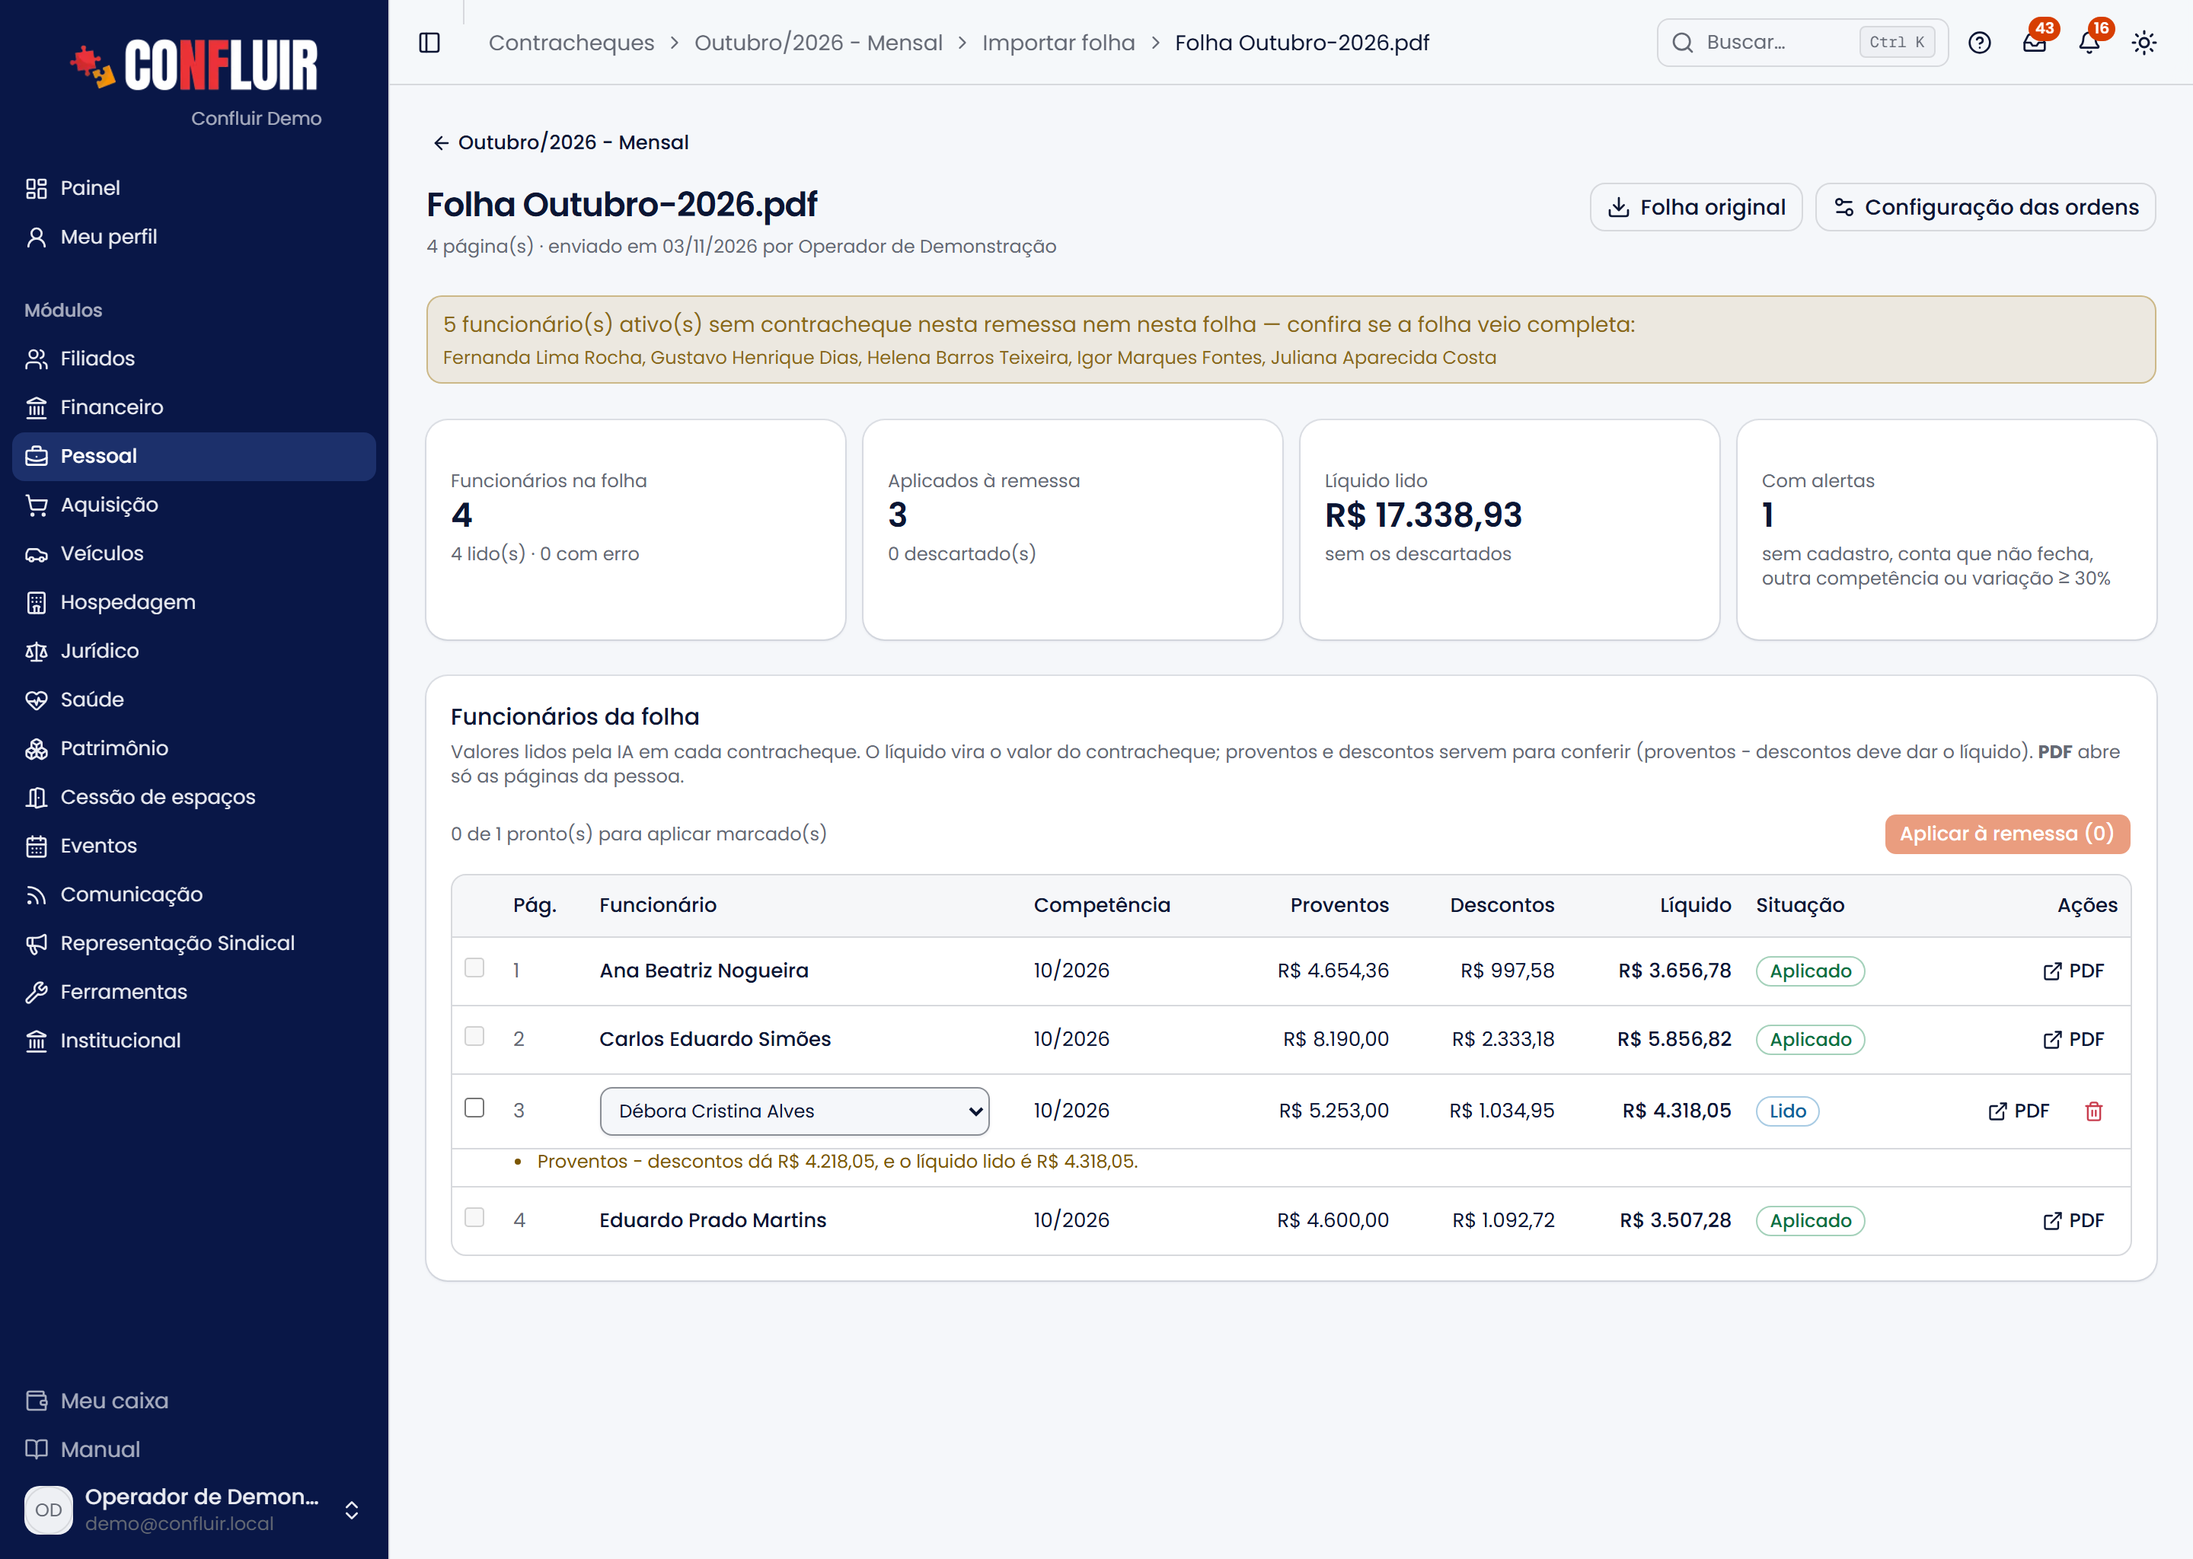
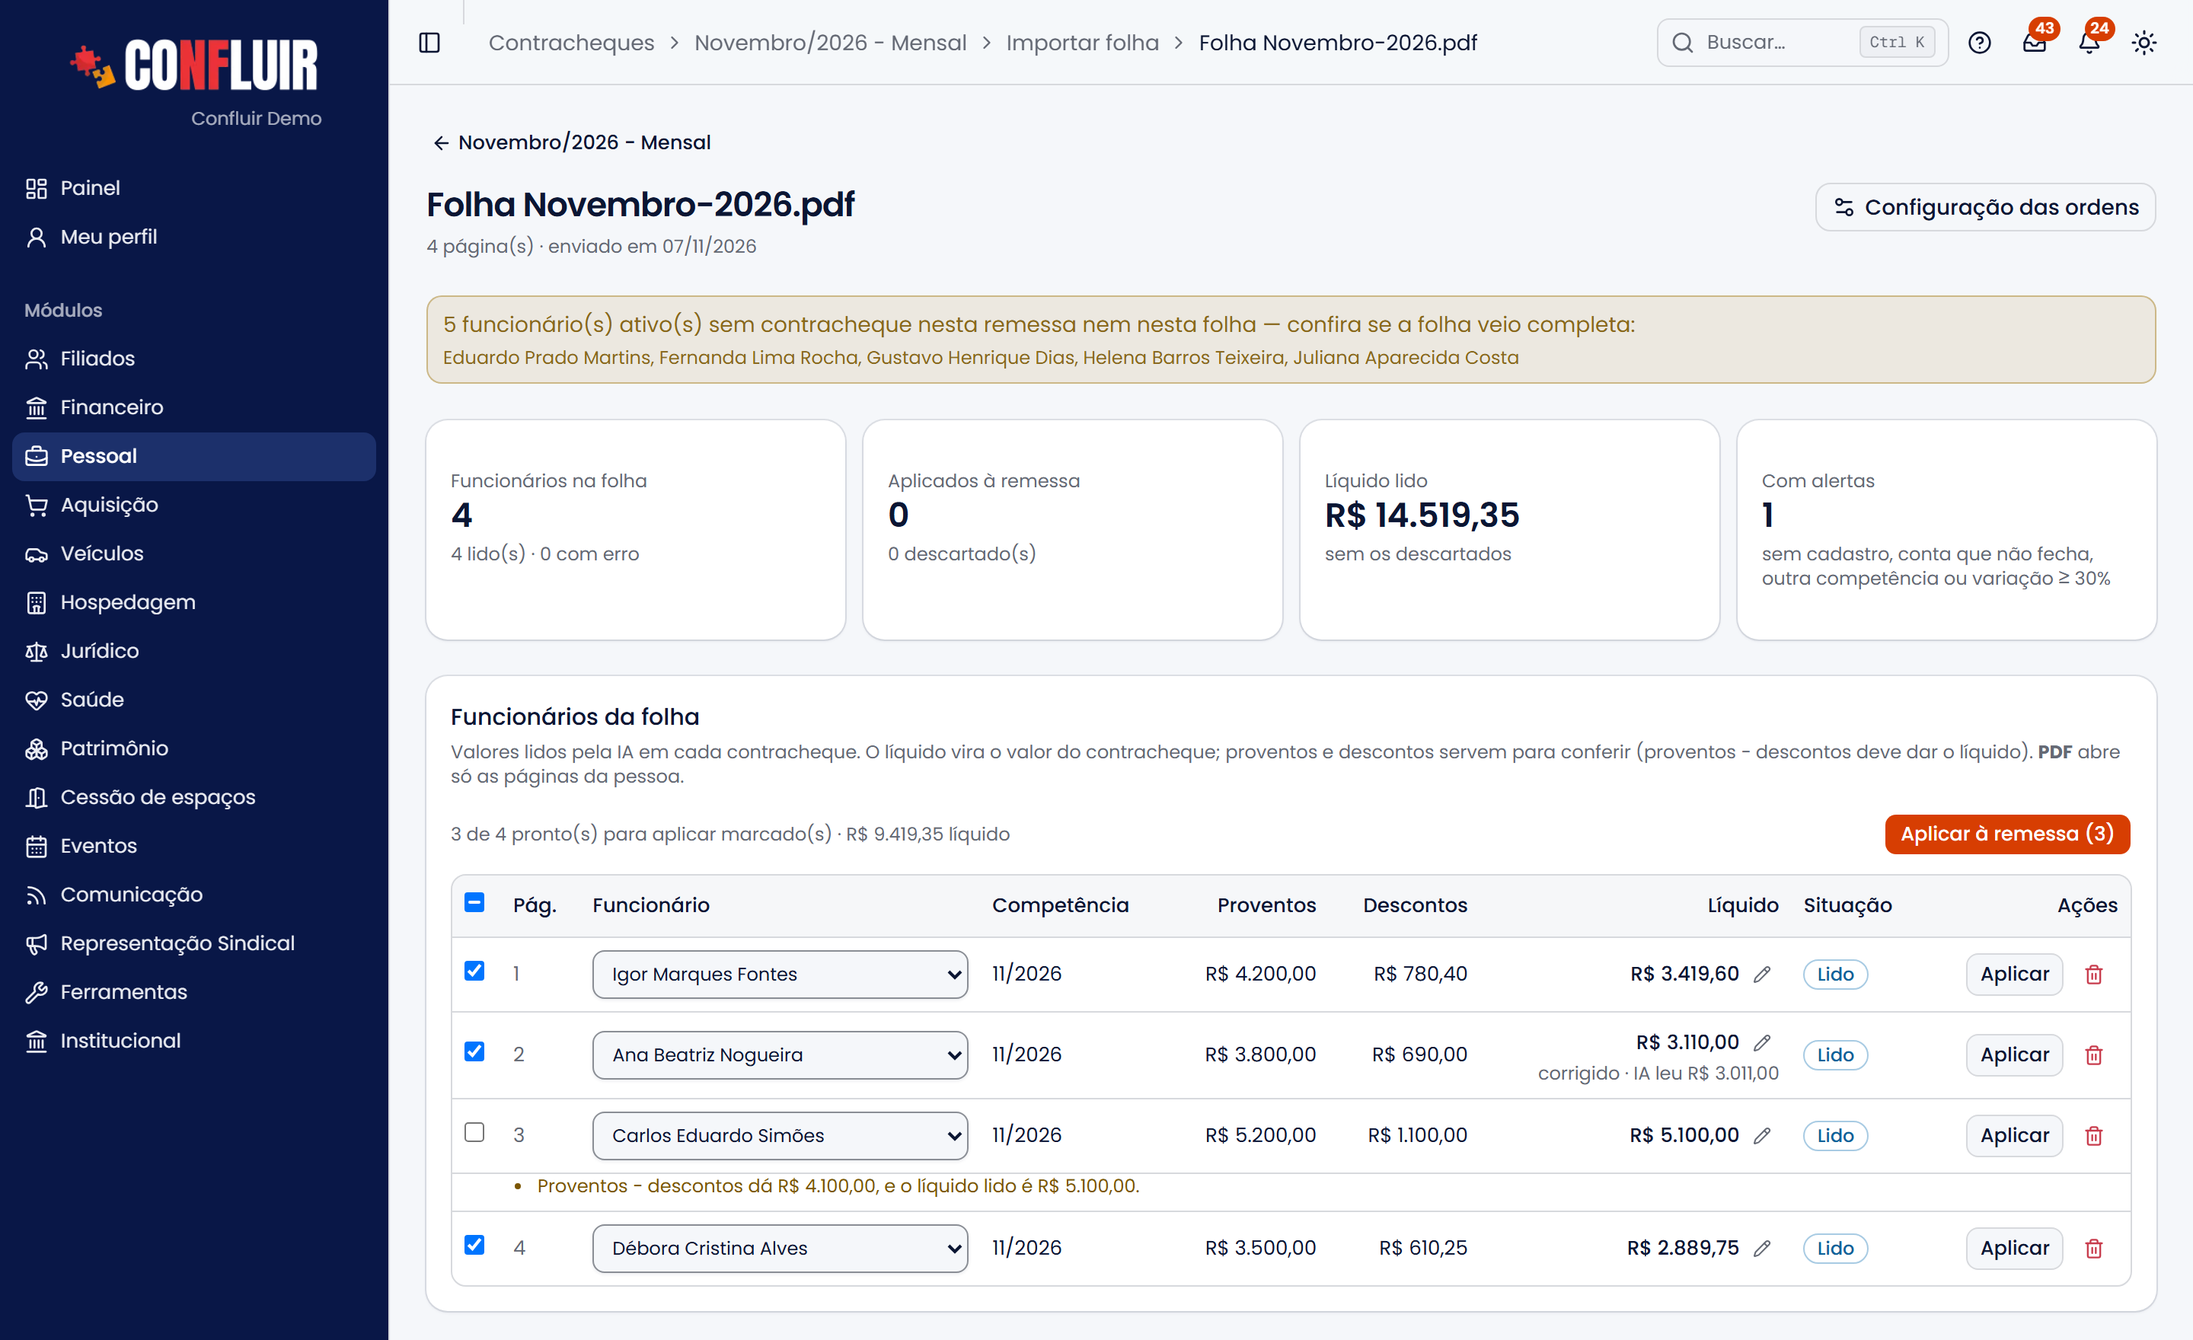
Contracheques: corrigir o líquido, aplicar um a um e marcar todos na conferência
Na conferência da folha importada: lápis no líquido para corrigir o valor
lido pela IA (guarda o valor original e mostra 'corrigido · IA leu'; vale
também para a linha com erro na leitura), botão Aplicar em cada linha e a
caixa de marcar/desmarcar todos no cabeçalho. Manual e print atualizados.

diff --git a/src/app/painel/pessoal/contracheques/[id]/importar/[importacaoId]/conferencia.tsx b/src/app/painel/pessoal/contracheques/[id]/importar/[importacaoId]/conferencia.tsx
@@ -2,7 +2,7 @@
 
 import { Fragment, useState, useTransition } from "react"
 import { useRouter } from "next/navigation"
-import { ExternalLink, FileSearch, Loader2, RotateCcw, Trash2 } from "lucide-react"
+import { Check, ExternalLink, FileSearch, Loader2, Pencil, RotateCcw, Trash2, X } from "lucide-react"
 
 import { Trabalhando } from "@/components/trabalhando"
 import { useLeituraEmLotes } from "@/hooks/use-leitura-em-lotes"
@@ -18,6 +18,7 @@ import { cn } from "@/lib/utils"
 import {
   aplicarItensCCAction,
   associarFuncionarioCCAction,
+  corrigirLiquidoCCAction,
   descartarItemCCAction,
   lerImportacaoCCAction,
 } from "../actions"
@@ -104,6 +105,34 @@ export function ConferenciaCC({
       else n.add(id)
       return n
     })
+  // Marcar todos: inclui os com alerta — é a escolha explícita de quem conferiu.
+  const todosMarcados = aplicaveis.length > 0 && selecionados.length === aplicaveis.length
+  const algunsMarcados = selecionados.length > 0 && !todosMarcados
+  const alternarTodos = () => setMarcados(todosMarcados ? new Set() : new Set(aplicaveis))
+
+  // ── Correção do líquido (antes de aplicar) ──
+  const [editando, setEditando] = useState<{ id: string; valor: string } | null>(null)
+  const [erroEdicao, setErroEdicao] = useState<string | null>(null)
+  const abrirEdicao = (i: ItemTelaCC) => {
+    setErroEdicao(null)
+    const v = i.leitura?.valorLiquido
+    setEditando({ id: i.id, valor: v === null || v === undefined ? "" : v.toLocaleString("pt-BR", { minimumFractionDigits: 2 }) })
+  }
+  const salvarEdicao = () => {
+    if (!editando) return
+    const { id, valor } = editando
+    iniciar({ titulo: "Corrigindo o valor líquido…" }, async () => {
+      const r = await corrigirLiquidoCCAction(remessaId, importacaoId, id, valor)
+      if (r.erro) {
+        setErroEdicao(r.erro)
+        return
+      }
+      setEditando(null)
+      // Quem corrigiu conferiu: o item entra marcado.
+      setMarcados((m) => new Set(m).add(id))
+      router.refresh()
+    })
+  }
 
   const [ocupado, iniciarTransicao] = useTransition()
   const [tarefa, setTarefa] = useState<{ titulo: string; detalhe?: string } | null>(null)
@@ -119,16 +148,19 @@ export function ConferenciaCC({
     })
   }
 
-  const totalSelecionado = itens
-    .filter((i) => selecionados.includes(i.id))
-    .reduce((s, i) => s + (i.leitura?.valorLiquido ?? 0), 0)
+  const liquidoDe = (ids: string[]) =>
+    itens.filter((i) => ids.includes(i.id)).reduce((s, i) => s + (i.leitura?.valorLiquido ?? 0), 0)
+  const totalSelecionado = liquidoDe(selecionados)
 
   // A confirmação vem antes da transição (dentro dela, o diálogo só apareceria no fim).
-  const aplicar = async () => {
-    const n = selecionados.length
+  // Sem `ids`, aplica os marcados; com um id, só aquela linha.
+  const aplicar = async (ids: string[] = selecionados) => {
+    const n = ids.length
+    const um = n === 1 ? itens.find((i) => i.id === ids[0]) : null
+    const total = liquidoDe(ids)
     const ok = await confirmar({
-      titulo: `Aplicar ${n} contracheque(s) à remessa?`,
-      descricao: `Cria o contracheque de cada um com o PDF dele e o valor líquido lido (total: ${moeda(totalSelecionado)}).${
+      titulo: um ? `Aplicar o contracheque de ${um.funcionarioNome ?? "este funcionário"}?` : `Aplicar ${n} contracheque(s) à remessa?`,
+      descricao: `${um ? "Cria o contracheque com o PDF dele e o valor líquido" : "Cria o contracheque de cada um com o PDF dele e o valor líquido"} (${um ? "" : "total: "}${moeda(total)}).${
         geraOrdem ? " Cada um gera a ordem de pagamento com o líquido, como no registro manual." : ""
       } Nada é enviado ao funcionário: os contracheques ficam bloqueados até você liberar na remessa.`,
       confirmar: "Aplicar",
@@ -140,7 +172,8 @@ export function ConferenciaCC({
         detalhe: geraOrdem ? "Gravando os contracheques e gerando as ordens de pagamento." : "Gravando os contracheques.",
       },
       async () => {
-        const r = await aplicarItensCCAction(remessaId, importacaoId, selecionados)
+        const r = await aplicarItensCCAction(remessaId, importacaoId, ids)
+        if (!r.erro) setMarcados((m) => new Set([...m].filter((id) => !ids.includes(id))))
         setResultado(
           r.erro
             ? { erro: r.erro }
@@ -206,7 +239,7 @@ export function ConferenciaCC({
           {selecionados.length} de {aplicaveis.length} pronto(s) para aplicar marcado(s)
           {selecionados.length > 0 && ` · ${moeda(totalSelecionado)} líquido`}
         </span>
-        <Button size="sm" onClick={aplicar} disabled={ocupado || lendo || selecionados.length === 0}>
+        <Button size="sm" onClick={() => aplicar()} disabled={ocupado || lendo || selecionados.length === 0}>
           {ocupado && <Loader2 className="animate-spin" />}
           Aplicar à remessa ({selecionados.length})
         </Button>
@@ -216,7 +249,18 @@ export function ConferenciaCC({
         <Table>
           <TableHeader>
             <TableRow className="bg-muted/50">
-              <TableHead className="w-8" />
+              <TableHead className="w-8">
+                <input
+                  type="checkbox"
+                  aria-label="Marcar todos os contracheques prontos para aplicar"
+                  checked={todosMarcados}
+                  ref={(el) => {
+                    if (el) el.indeterminate = algunsMarcados
+                  }}
+                  disabled={aplicaveis.length === 0 || ocupado}
+                  onChange={alternarTodos}
+                />
+              </TableHead>
               <TableHead>Pág.</TableHead>
               <TableHead>Funcionário</TableHead>
               <TableHead>Competência</TableHead>
@@ -283,7 +327,56 @@ export function ConferenciaCC({
                     <TableCell className="tabular-nums">{mesAno(l?.competencia) ?? (sendoLido ? <Skeleton className="h-3 w-14" /> : "—")}</TableCell>
                     <TableCell className="text-right tabular-nums">{moeda(l?.totalProventos) ?? vazio}</TableCell>
                     <TableCell className="text-right tabular-nums">{moeda(l?.totalDescontos) ?? vazio}</TableCell>
-                    <TableCell className="text-right font-medium tabular-nums">{moeda(l?.valorLiquido) ?? vazio}</TableCell>
+                    <TableCell className="text-right font-medium tabular-nums">
+                      {editando?.id === i.id ? (
+                        <div className="flex flex-col items-end gap-1">
+                          <div className="flex items-center justify-end gap-1">
+                            <input
+                              aria-label="Valor líquido"
+                              inputMode="decimal"
+                              autoFocus
+                              className="border-input bg-background h-7 w-28 rounded-md border px-2 text-right text-xs tabular-nums shadow-xs outline-none"
+                              value={editando.valor}
+                              disabled={ocupado}
+                              onChange={(e) => setEditando({ id: i.id, valor: e.target.value })}
+                              onKeyDown={(e) => {
+                                if (e.key === "Enter") salvarEdicao()
+                                if (e.key === "Escape") setEditando(null)
+                              }}
+                            />
+                            <Button variant="ghost" size="sm" className="h-7 px-1.5" aria-label="Salvar o valor" disabled={ocupado} onClick={salvarEdicao}>
+                              <Check />
+                            </Button>
+                            <Button variant="ghost" size="sm" className="h-7 px-1.5" aria-label="Cancelar" disabled={ocupado} onClick={() => setEditando(null)}>
+                              <X />
+                            </Button>
+                          </div>
+                          {erroEdicao && <span className="text-destructive text-xs font-normal">{erroEdicao}</span>}
+                        </div>
+                      ) : (
+                        <div className="flex items-center justify-end gap-1">
+                          {moeda(l?.valorLiquido) ?? vazio}
+                          {podeEditar && !sendoLido && (i.situacao === "lido" || i.situacao === "erro") && (
+                            <Button
+                              variant="ghost"
+                              size="sm"
+                              className="text-muted-foreground h-6 px-1"
+                              aria-label="Corrigir o valor líquido"
+                              title="Corrigir o valor líquido"
+                              disabled={ocupado}
+                              onClick={() => abrirEdicao(i)}
+                            >
+                              <Pencil className="size-3" />
+                            </Button>
+                          )}
+                        </div>
+                      )}
+                      {l?.valorLiquidoIa !== undefined && editando?.id !== i.id && (
+                        <span className="text-muted-foreground block text-xs font-normal">
+                          corrigido · IA leu {moeda(l.valorLiquidoIa) ?? "nada"}
+                        </span>
+                      )}
+                    </TableCell>
                     <TableCell>
                       {sendoLido ? (
                         <Badge variant="outline" className="border-info/40 text-info-fg gap-1">
@@ -300,6 +393,17 @@ export function ConferenciaCC({
                     </TableCell>
                     <TableCell>
                       <div className="flex items-center justify-end gap-1">
+                        {!i.bloqueio && (
+                          <Button
+                            variant="outline"
+                            size="sm"
+                            className="h-7 px-2"
+                            disabled={ocupado || lendo}
+                            onClick={() => aplicar([i.id])}
+                          >
+                            Aplicar
+                          </Button>
+                        )}
                         {i.urlPdf && (
                           <Button variant="ghost" size="sm" className="h-7 px-2" asChild>
                             <a href={i.urlPdf} target="_blank" rel="noreferrer">

diff --git a/src/lib/db/contracheque-importacao.ts b/src/lib/db/contracheque-importacao.ts
@@ -317,6 +317,41 @@ export async function descartarItemCC(itemId: string, voltar = false): Promise<{
   return error ? { erro: error.message } : {}
 }
 
+/**
+ * Corrige o líquido na conferência, antes de aplicar. O valor que a IA leu
+ * fica em valorLiquidoIa (a tela mostra "IA leu …"); voltar ao valor da IA
+ * apaga a marca. Item com erro na leitura passa a "lido" com o valor digitado.
+ */
+export async function corrigirLiquidoCC(itemId: string, valor: number): Promise<{ erro?: string }> {
+  if (!Number.isFinite(valor) || valor < 0) return { erro: "Informe um valor líquido válido." }
+  const admin = await createAdminClient()
+  const emp = await tenantAtual()
+  const { data, error: e1 } = await admin
+    .from(ITENS)
+    .select("leitura, situacao, contracheque_id")
+    .eq("id", itemId)
+    .eq("emp_proprietaria_id", emp)
+    .maybeSingle()
+  if (e1 || !data) return { erro: "Item não encontrado." }
+  if (data.contracheque_id || data.situacao === "aplicado") return { erro: "Este contracheque já foi aplicado: corrija o valor na remessa." }
+  if (data.situacao === "descartado") return { erro: "Restaure o item antes de corrigir o valor." }
+  if (data.situacao === "pendente") return { erro: "Aguarde a leitura da IA antes de corrigir o valor." }
+  const antes = (data.leitura ?? null) as LeituraContracheque | null
+  const base: LeituraContracheque = antes ?? { nome: null, cpf: null, competencia: null, totalProventos: null, totalDescontos: null, valorLiquido: null }
+  const lidoPelaIa = antes ? (antes.valorLiquidoIa !== undefined ? antes.valorLiquidoIa : antes.valorLiquido) : null
+  const centavos = Math.round(valor * 100) / 100
+  const leitura: LeituraContracheque = { ...base, valorLiquido: centavos }
+  if (lidoPelaIa !== null && lidoPelaIa === centavos) delete leitura.valorLiquidoIa
+  else leitura.valorLiquidoIa = lidoPelaIa
+  const { error } = await admin
+    .from(ITENS)
+    .update({ leitura, situacao: "lido", erro: null })
+    .eq("id", itemId)
+    .eq("emp_proprietaria_id", emp)
+    .is("contracheque_id", null)
+  return error ? { erro: error.message } : {}
+}
+
 // ── 4. Aplicar à remessa ─────────────────────────────────────────────────────
 
 /**

diff --git a/src/app/painel/pessoal/contracheques/[id]/importar/actions.ts b/src/app/painel/pessoal/contracheques/[id]/importar/actions.ts
@@ -8,10 +8,12 @@ import { type EstadoForm } from "@/lib/contas"
 import {
   aplicarItensCC,
   associarFuncionarioCC,
+  corrigirLiquidoCC,
   criarImportacaoCC,
   descartarItemCC,
   lerPendentesCC,
 } from "@/lib/db/contracheque-importacao"
+import { lerValor } from "@/lib/reembolsos-lote"
 
 const exigirAcesso = () => requirePermissao("pessoal_gestao", ["pessoal_contracheque"])
 
@@ -75,5 +77,20 @@ export async function aplicarItensCCAction(
   revalidatePath(caminho(remessaId, importacaoId))
   revalidatePath("/painel/pessoal/contracheques", "layout")
   revalidatePath("/painel/financeiro/ordens")
+  return r
+}
+
+/** Corrige o líquido lido pela IA (texto pt-BR: "3.250,40"). */
+export async function corrigirLiquidoCCAction(
+  remessaId: string,
+  importacaoId: string,
+  itemId: string,
+  bruto: string
+): Promise<{ erro?: string }> {
+  await exigirAcesso()
+  const valor = lerValor(bruto)
+  if (valor === null) return { erro: "Valor inválido. Use o formato 3.250,40." }
+  const r = await corrigirLiquidoCC(itemId, valor)
+  revalidatePath(caminho(remessaId, importacaoId))
   return r
 }

diff --git a/src/lib/contracheque-leitura.ts b/src/lib/contracheque-leitura.ts
@@ -11,6 +11,8 @@ export type LeituraContracheque = {
   totalProventos: number | null
   totalDescontos: number | null
   valorLiquido: number | null
+  /** O líquido que a IA leu, guardado quando a pessoa corrige o valor na conferência. */
+  valorLiquidoIa?: number | null
 }
 
 const MESES = ["janeiro", "fevereiro", "marco", "abril", "maio", "junho", "julho", "agosto", "setembro", "outubro", "novembro", "dezembro"]
